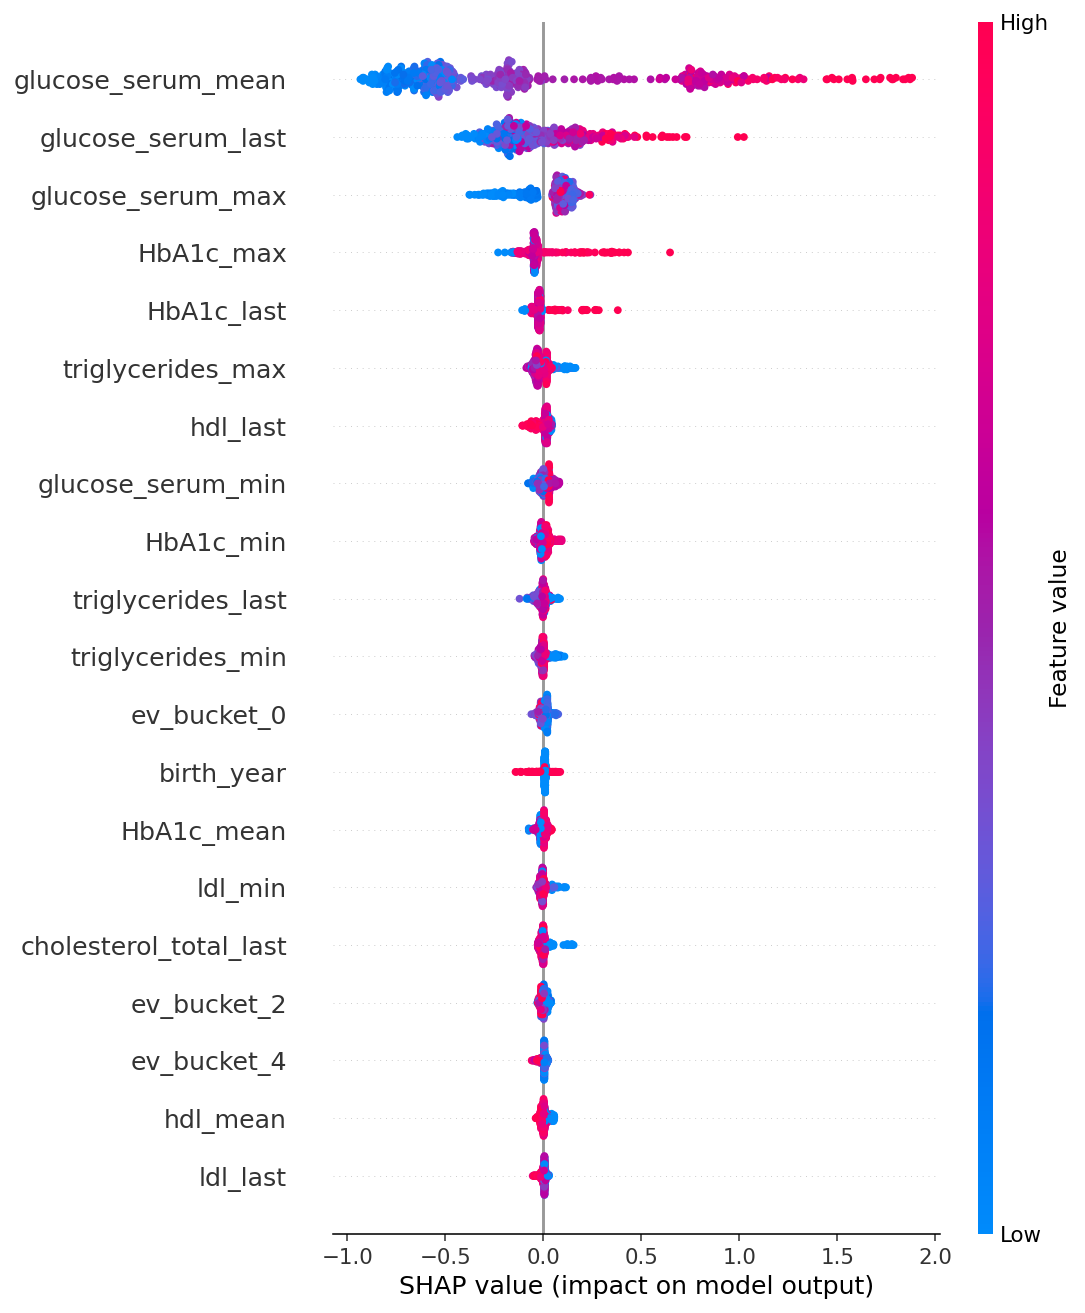
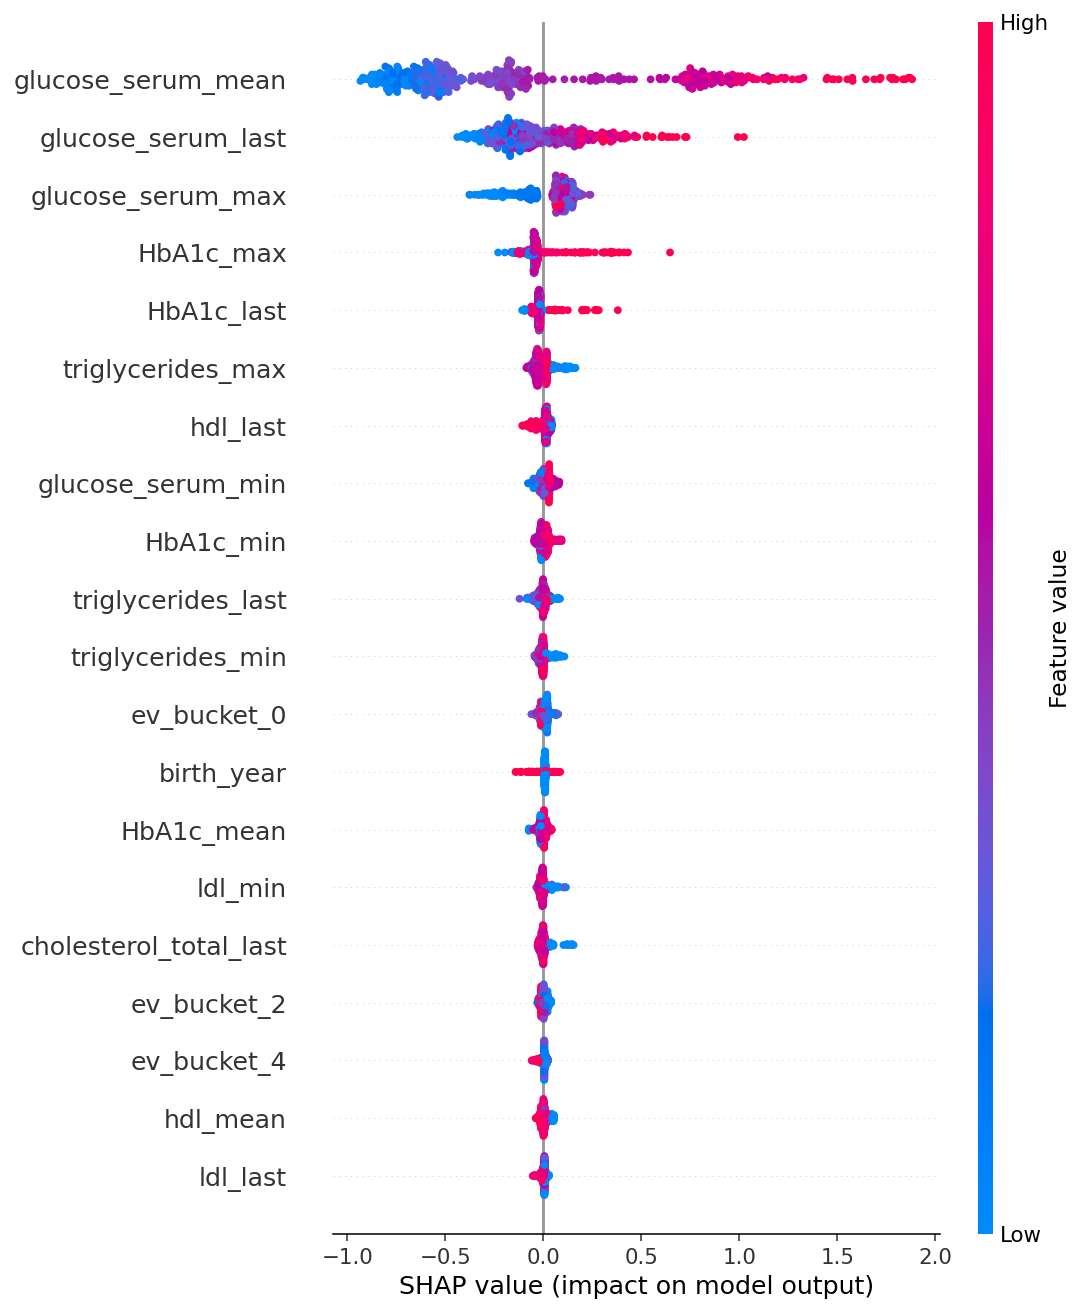
docs: iteration 4 log + recaptured dashboard with backend selector
ITERATIONS.md gets a fresh Iteration 4 entry covering the hard-pass
fixes, open-weight summarizer, and four new cookbook examples. The
previous "Iteration 5 — planned" production-credibility entry is
renumbered to Iteration 6 since the calibration work originally
planned for iteration 4 now becomes iteration 5.

Dashboard screenshots recaptured against MIMIC10002930 — the sidebar
now shows the new "Summary backend" radio (deterministic / ollama /
transformers) and the Audience selectbox. The KPIs, summary text,
engagement timeline, and HbA1c trajectory render identically because
the deterministic backend produces the same output as the previous
direct template call.

diff --git a/ITERATIONS.md b/ITERATIONS.md
@@ -129,7 +129,77 @@ cookbook 03.
 - MIMIC-IV data not present in this clone; synthetic-only run only. Iteration 2
   MIMIC numbers (Pearson 0.875 / MAE 0.384) stand and are documented in the README.
 
-## Iteration 4 — planned
+## Iteration 4 — 2026-05-29 — Hard pass + open-weight LLM + four new use cases
+
+**Goal.** Address a fair pushback ("you can't use Sonnet without an API key")
+by making LLM independence explicit + first-class, do a hard quality pass to
+fix every issue a reviewer would catch, and add four cookbook examples
+that map to real health-tech workflows the previous four didn't cover.
+
+**What landed**
+
+- **Hard-pass audit fixes** (every issue from the audit, file-by-file):
+  - `models/_features.py` — label-flip noise RNG now seeded from the
+    `seed` argument instead of a hardcoded `0`. Two runs with different
+    `--seed` now produce different (reproducibly different) dropout
+    targets, as documented.
+  - `models/_features.py` — empty engagement events now logs a warning
+    so silent data-ingestion failures surface during training.
+  - `Makefile` — added `etl-parquet`, `train-gnn`, and
+    `pipeline-parquet` targets; help text updated; existing Docker-only
+    `pipeline` target no longer the only end-to-end option.
+  - `README.md` — quickstart now has both Option A (Docker stack) and
+    Option B (Docker-free / parquet path) sections so readers without
+    Docker aren't stranded; the data-sources table no longer claims
+    BP/BMI/prescriptions that the loader doesn't actually extract.
+
+- **Open-weight summarizer (`summarizer/` package):** three backends —
+  `deterministic` (existing template), `ollama` (local Ollama server),
+  `transformers` (in-process HuggingFace causal LM, default
+  `microsoft/Phi-3-mini-4k-instruct`). Selected via `CMG_SUMMARIZER` env
+  var or the new sidebar radio in the dashboard. Audience-specific
+  prompts (`clinician` / `patient` / `care_coordinator` / `prior_auth`)
+  share a single `PatientFacts` payload so the audit trail is identical
+  regardless of backend. Both LLM backends gracefully degrade to the
+  deterministic template when their service / dependency is unavailable.
+  No proprietary API key required anywhere.
+
+- **Six new contract tests** in `tests/test_summarizer.py`. Total fast
+  suite now **19 passing** (was 13).
+
+- **Four new cookbook examples** (each tested end-to-end on the current
+  500-patient + MIMIC-100 frame):
+  - `05_prior_auth_note` — structured PA note generator with metric
+    table + attestation block; calls the summarizer at the `prior_auth`
+    audience.
+  - `06_pre_visit_summary` — morning-prep worklist for a physician's
+    daily schedule; rule-based "questions to ask" derived from each
+    patient's risk signals.
+  - `07_trial_eligibility` — configurable JSON trial-spec screening
+    that ranks patients by criteria met and engagement; default spec
+    inspired by SUSTAIN-6.
+  - `08_pharmacist_intervention` — leverage-score-based weekly call
+    list with phone-script bullets; includes a real bug-fix where we
+    pull `last_hba1c` from the labs frame rather than the features
+    frame (which intentionally holds out the target).
+
+- **Dashboard** — `dashboard/app.py` now has sidebar radio for summary
+  backend + audience selector; KPIs and trajectory chart unchanged.
+  Screenshot recaptured against MIMIC10002930 with the new sidebar
+  visible.
+
+- **README** — added "Summary backends — no proprietary LLM required"
+  section with a backend comparison table; cookbook index expanded
+  with the four new entries and a "who uses it" column.
+
+**What didn't land**
+
+- Calibration plot / reliability diagram for the dropout classifier
+  (carried forward to iteration 5).
+- NHANES + Reactome real-data ingest (still synthetic-only in the
+  Docker-free path).
+
+## Iteration 5 — planned
 
 **Goal.** Calibration, reliability, and production credibility.
 
@@ -159,7 +229,7 @@ calibration plot + reliability diagram for the dropout classifier**. Rationale:
    (`etl/load_nhanes.py`) so the engagement signal has real public-data backing,
    not just synthetic events.
 
-## Iteration 5 — planned
+## Iteration 6 — planned
 
 **Goal.** Production credibility — the things a health-tech CTO would ask
 about before adoption.

diff --git a/docs/figures/model_report.md b/docs/figures/model_report.md
@@ -4,29 +4,28 @@
 
 | Model | Pearson r | MAE (HbA1c %) | n_train | n_test |
 |-------|-----------|---------------|---------|--------|
-| LightGBM | 0.968 | 0.282 | 400 | 100 |
-| GAT-GNN  | 0.701 | 0.790 | 400 | 100 |
+| LightGBM | 0.875 | 0.384 | 480 | 120 |
 
 ## Engagement dropout (binary classification)
 
 | Model | AUROC | AUPRC | n_train | n_test | pos rate (test) |
 |-------|-------|-------|---------|--------|-----------------|
-| LightGBM | 0.841 | 0.813 | 400 | 100 | 21.00% |
+| LightGBM | 0.820 | 0.741 | 480 | 120 | 16.67% |
 
 ## Top features (GBM HbA1c)
 
-- `glucose_serum_last` — 320
-- `triglycerides_last` — 151
-- `HbA1c_min` — 132
-- `hdl_last` — 125
-- `glucose_serum_mean` — 115
-- `triglycerides_max` — 92
-- `hdl_mean` — 91
-- `glucose_serum_min` — 91
-- `ldl_min` — 88
-- `cholesterol_total_max` — 85
-- `ev_bucket_3` — 82
-- `glucose_serum_max` — 76
-- `ev_bucket_2` — 74
-- `HbA1c_last` — 72
-- `ldl_max` — 69
+- `glucose_serum_last` — 265
+- `glucose_serum_mean` — 157
+- `glucose_serum_max` — 88
+- `triglycerides_last` — 75
+- `glucose_serum_min` — 62
+- `triglycerides_max` — 61
+- `hdl_last` — 50
+- `triglycerides_min` — 46
+- `HbA1c_max` — 45
+- `HbA1c_last` — 43
+- `birth_year` — 40
+- `HbA1c_min` — 38
+- `cholesterol_total_last` — 36
+- `triglycerides_mean` — 34
+- `hdl_min` — 34
